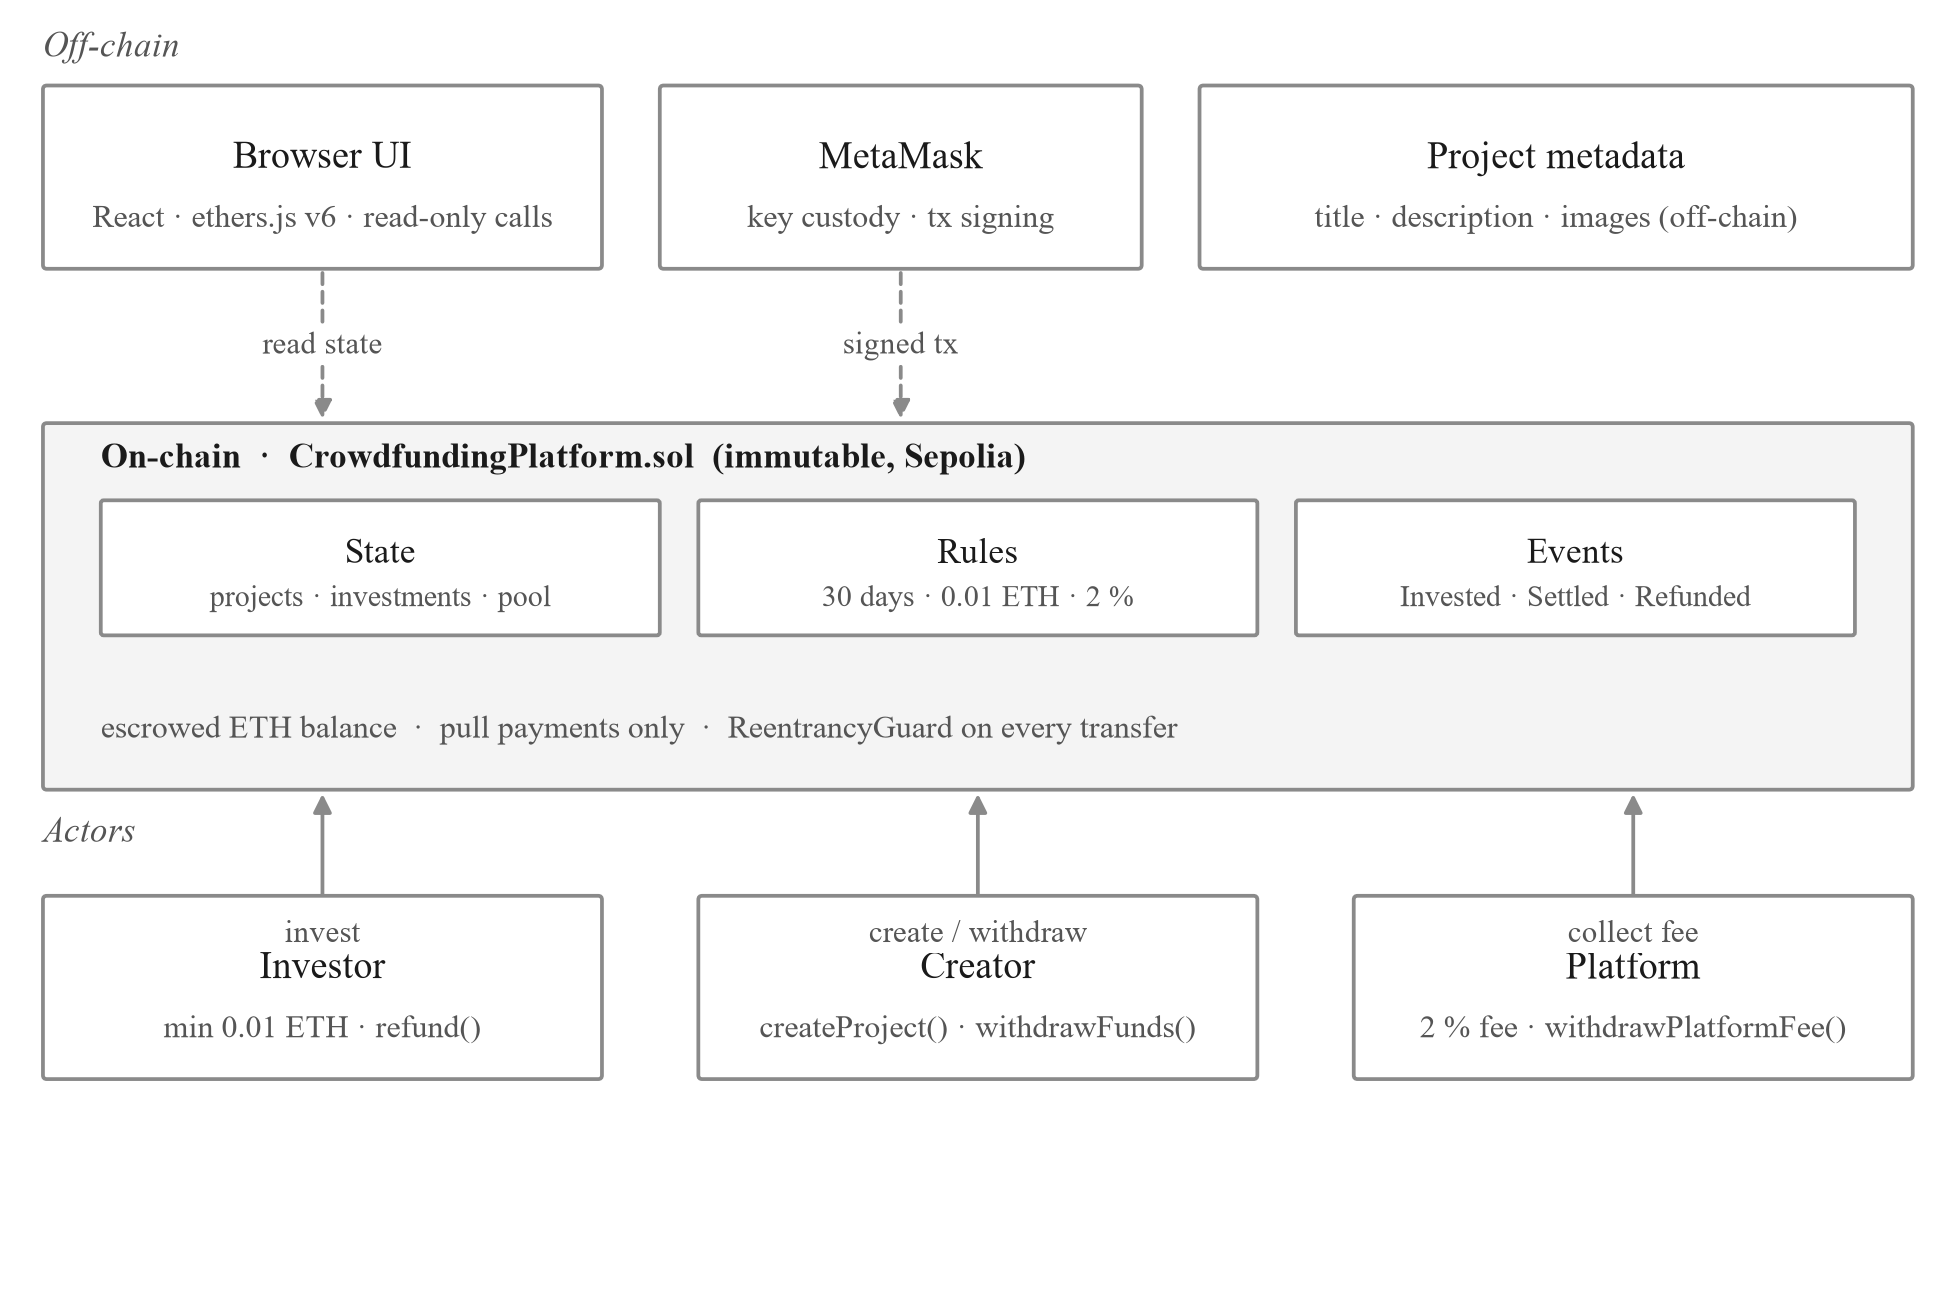
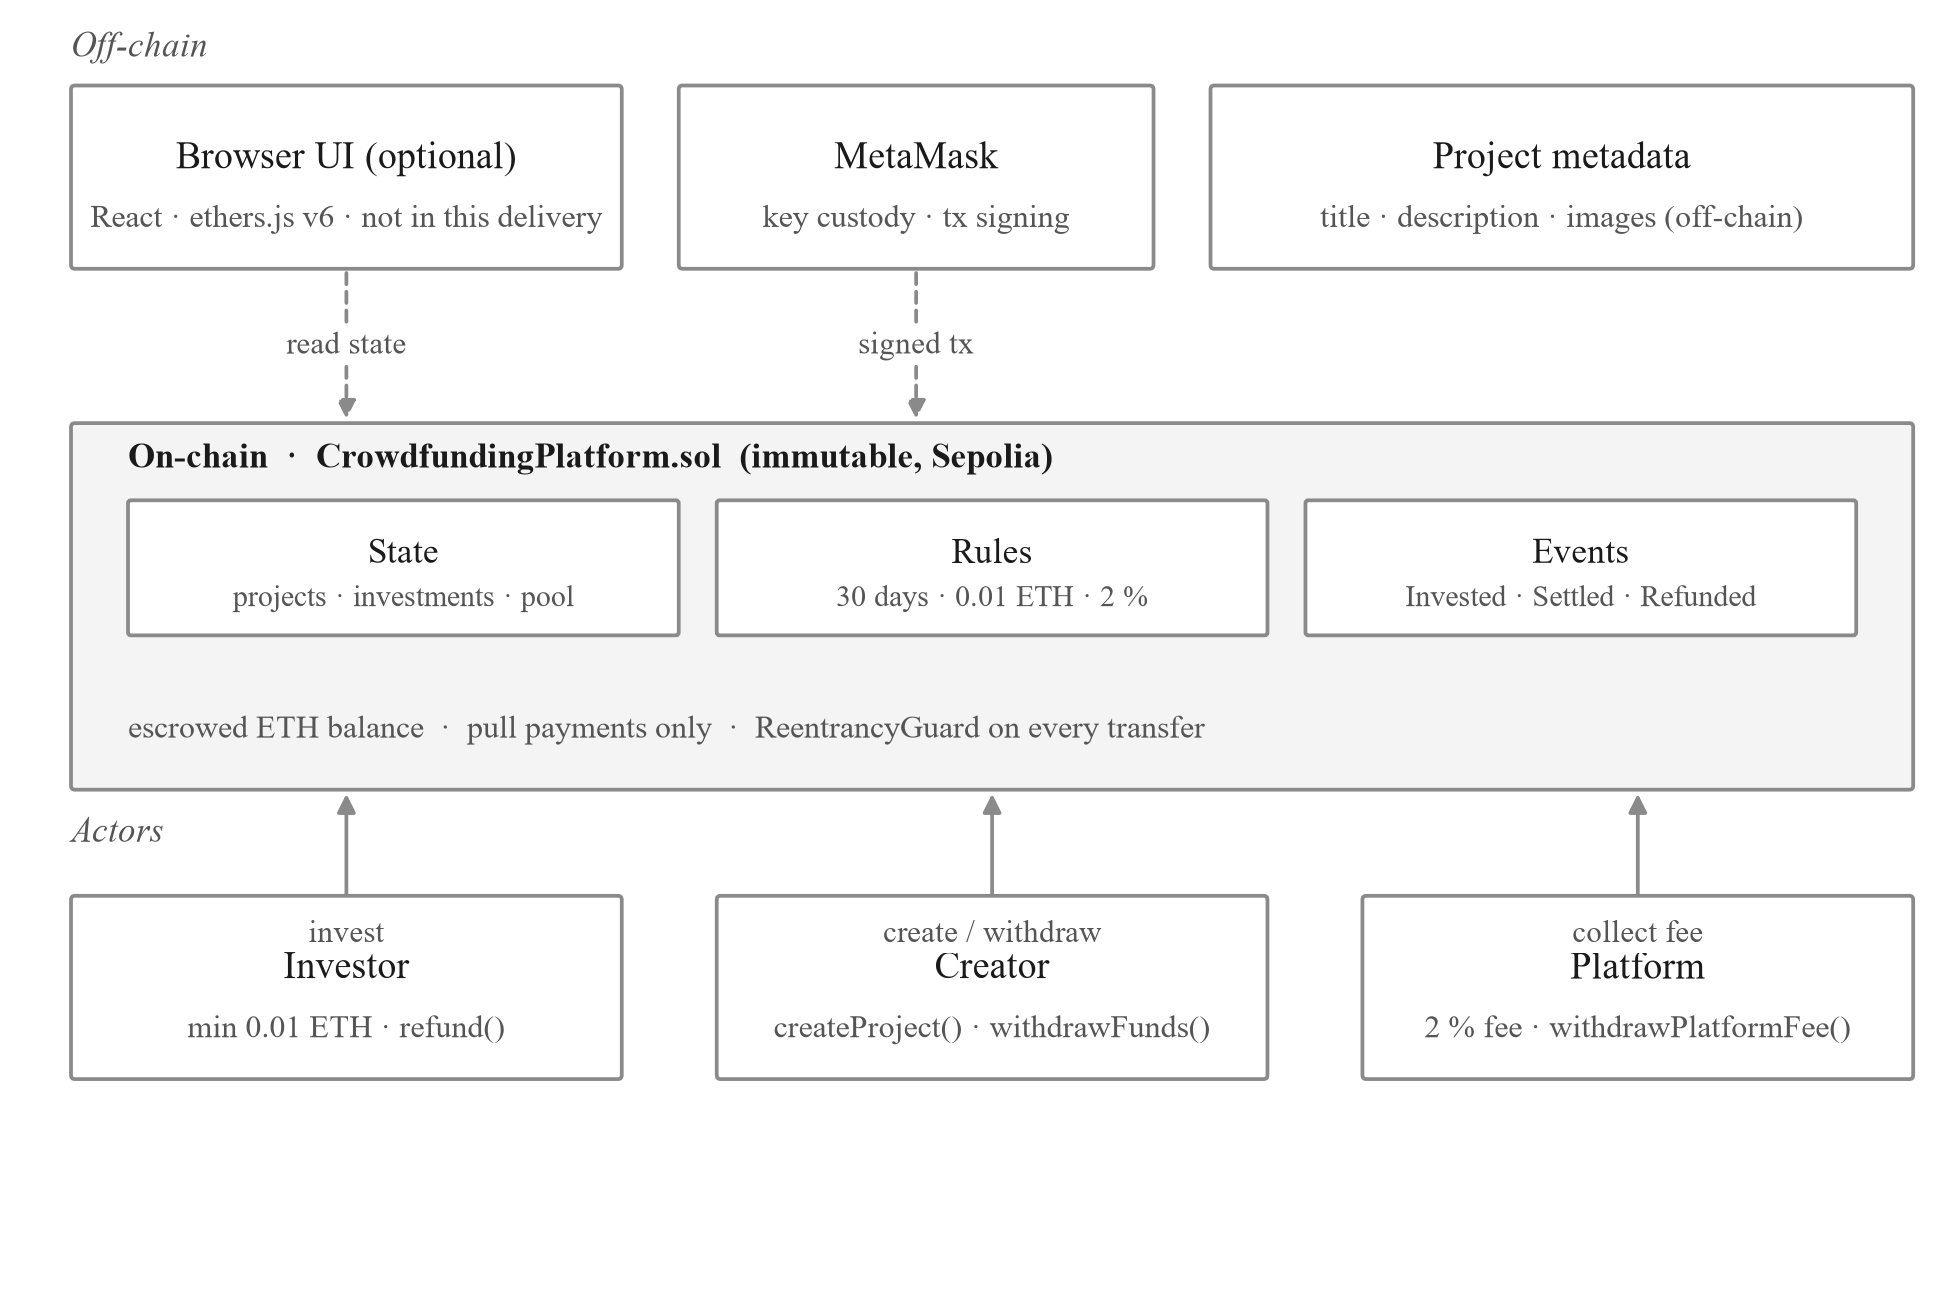
docs: clean slither log preamble, real deployment gas, clone URL, optional-UI label

diff --git a/docs/make_figures.py b/docs/make_figures.py
@@ -42,7 +42,7 @@ def fig1():
     ax.axis("off")
 
     ax.text(0.15, 6.35, "Off-chain", fontsize=8.5, color=MID, style="italic")
-    box(ax, 0.15, 5.25, 2.9, 0.95, "Browser UI", "React · ethers.js v6 · read-only calls")
+    box(ax, 0.15, 5.25, 2.9, 0.95, "Browser UI (optional)", "React · ethers.js v6 · not in this delivery")
     box(ax, 3.35, 5.25, 2.5, 0.95, "MetaMask", "key custody · tx signing")
     box(ax, 6.15, 5.25, 3.7, 0.95, "Project metadata", "title · description · images (off-chain)")
 

diff --git a/README.md b/README.md
@@ -42,7 +42,7 @@ crowdfund-dapp/
 
 ```bash
 # 2.1 install
-git clone <this-repository-url>
+git clone https://github.com/pkkxs0903/crowdfund-dapp.git
 cd crowdfund-dapp
 npm install
 
@@ -77,7 +77,7 @@ npx hardhat verify --network sepolia <CONTRACT_ADDRESS> <FEE_RECIPIENT>
 | --- | --- |
 | Network | Sepolia (chain id 11155111) |
 | Contract address | `0x306d64A7F18A0886a5B935931febDAB23D430480` |
[2 lines of base64/hex data omitted]
 | Deployer / fee recipient | `0x429069184CC214B8B255F74327807660bccADe99` |
 | First campaign | id 1, target 0.1 ETH, raised 0.05 ETH — see `docs/demo-output.txt` |
 | Etherscan (verified) | https://sepolia.etherscan.io/address/0x306d64A7F18A0886a5B935931febDAB23D430480#code |
